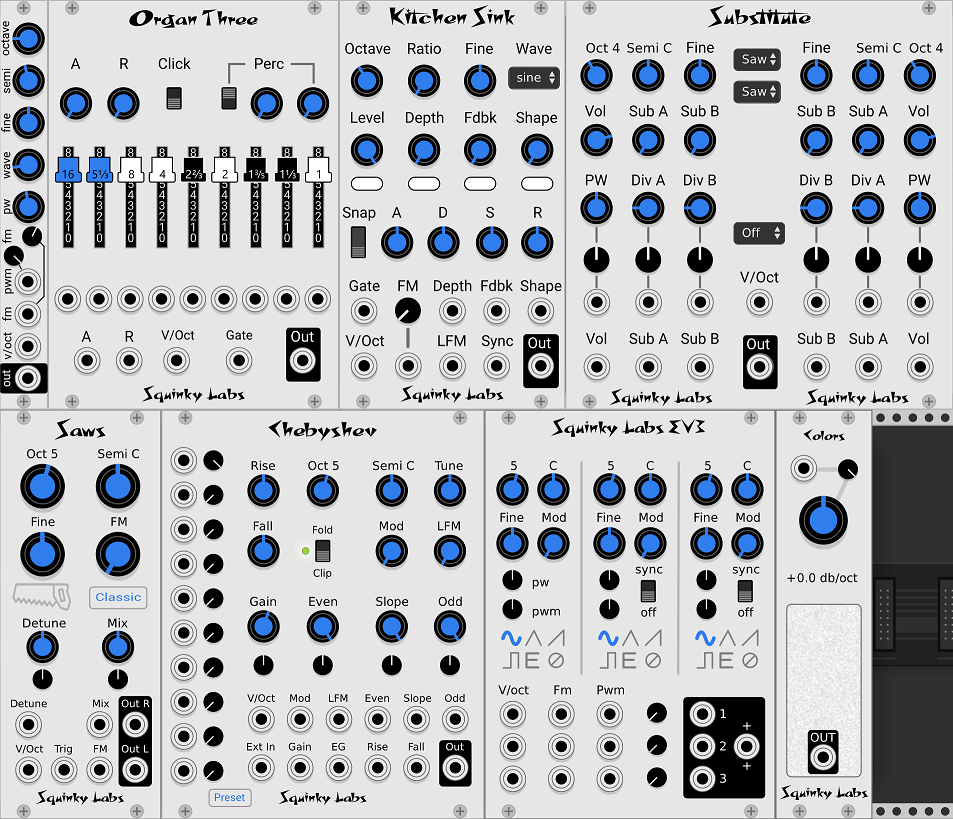
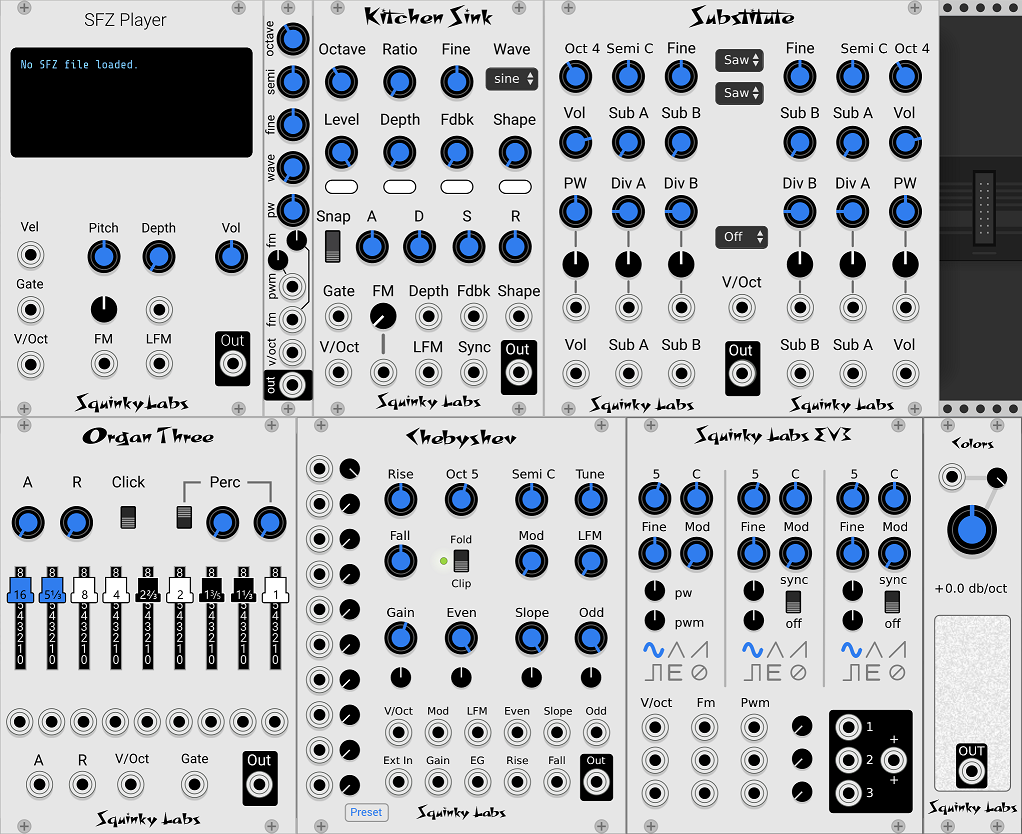
-

diff --git a/docs/booty-shifter.md b/docs/booty-shifter.md
@@ -10,6 +10,8 @@ The [Changelog](../CHANGELOG.md) describes recent changes to our modules. (Notic
 
 ![Intro 1 image](./intro-1-110.png)
 
+[SFZ Player](sfz-player.md) is a polyphonic sample player.
+
 [Basic VCO](./basic.md) is a tinny polyphonic VCO that is super clean and uses very little CPU.
 
 [Organ Three](./og.md) is a polyphonic "Organ" module based on the Hammond tone-wheel organs.

diff --git a/docs/sfz-player.md b/docs/sfz-player.md
@@ -1,5 +1,7 @@
 # SFZ Player
 
+![SFZ Player](./sfz-player.png)
+
 ## What the player does
 
 It is a VCV module that can load an SFZ instrument and convert CV and Gate into sounds. You can think of is as a sampler like Kontakt (from NI), only more stripped down. And free.

diff --git a/README.md b/README.md
@@ -23,6 +23,7 @@ Beta testing by:
 * [soxa](https://soxsa.bandcamp.com)
 * [Espen Storø](https://www.youtube.com/user/espenstoro)
 * Joop van der Linden
+* Worker 13
 
 All third party software copyright information is in [LICENSE-dist.txt](./LICENSE-dist.txt)
 
